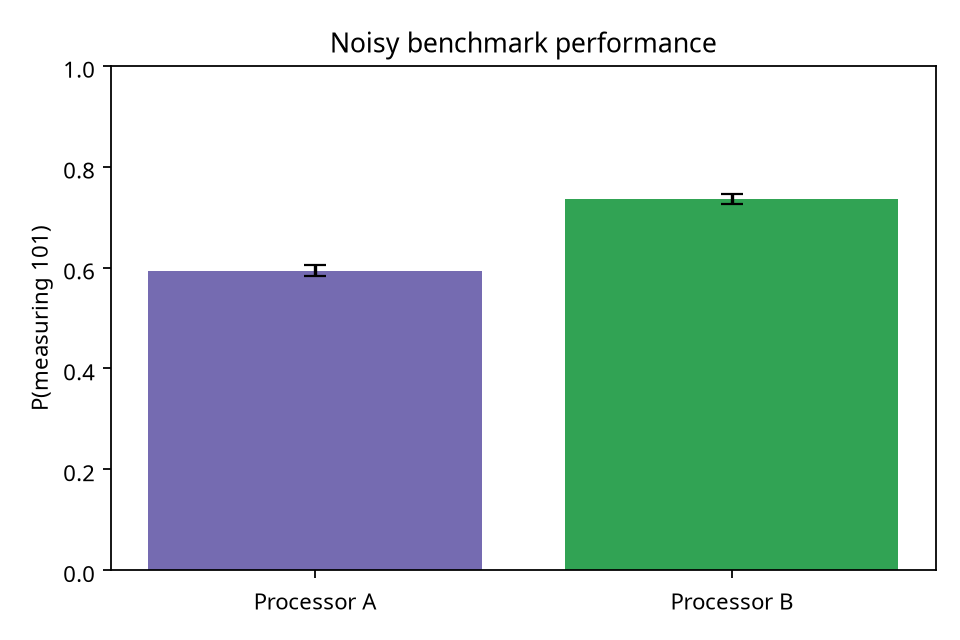
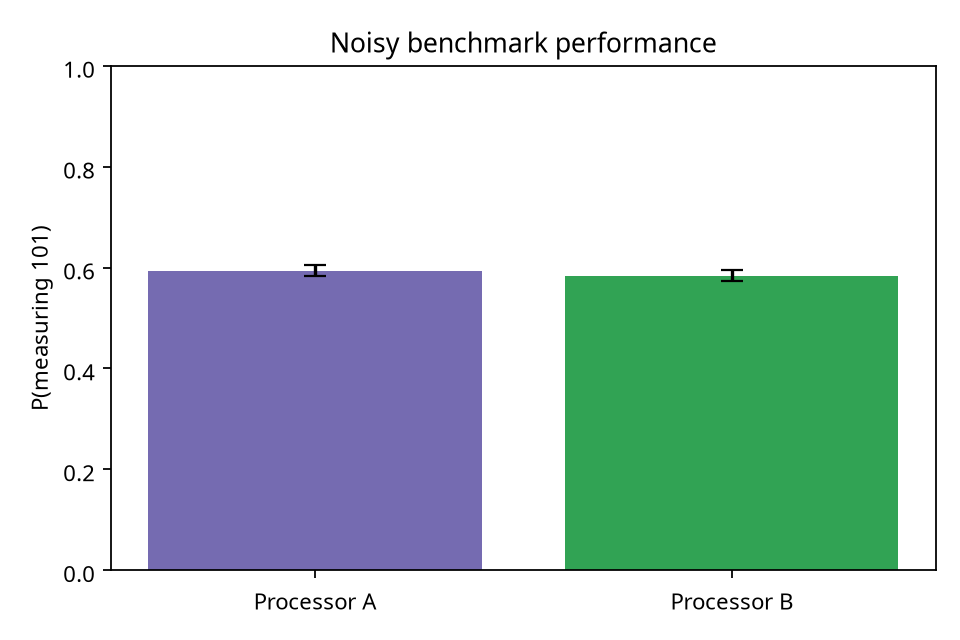
Align online benchmark with seven-qubit provisional Processor B

Changed region(s): [[0.5625, 0.2812, 0.9375, 0.4375]]

diff --git a/README.md b/README.md
@@ -55,12 +55,12 @@ These values are generated from the result CSVs—not typed in by hand.
 
 | Metric | Processor A | Processor B | B − A |
 |---|---:|---:|---:|
-| Success probability for `101` | `0.593750` | `0.735840` | `0.142090` |
-| Standard error | `0.010853` | `0.009742` | `-0.001110` |
-| Compiled depth | `147` | `56` | `-91` |
-| Counted two-qubit gates | `45` | `24` | `-21` |
-| Estimated SWAP overhead | `7.000000` | `0.000000` | `-7.000000` |
-| Total compiled operations | `231` | `96` | `-135` |
+| Success probability for `101` | `0.593750` | `0.583496` | `-0.010254` |
+| Standard error | `0.010853` | `0.010893` | `0.000041` |
+| Compiled depth | `147` | `175` | `28` |
+| Counted two-qubit gates | `45` | `45` | `0` |
+| Estimated SWAP overhead | `7.000000` | `7.000000` | `0.000000` |
+| Total compiled operations | `231` | `276` | `45` |
 
 **Interpretation:** under this placeholder topology and common noise model, Processor B produced fewer compiled operations and a higher measured success probability. This is evidence for this experiment—not a universal claim that more connectivity is always better. Gate sets, placement, routing, noise, calibration, and compiler choices can all contribute.
 
@@ -103,7 +103,7 @@ jupyter nbconvert --to notebook --execute main.ipynb \
 ├── report.md                         ← measured analysis + limitations
 ├── data/raw/inventory.csv            ← sample crypto inventory
 ├── processors/processor_A.json       ← line topology placeholder
-├── processors/processor_B.json       ← connected topology placeholder
+├── processors/processor_B.json       ← seven-qubit heavy-hex-inspired provisional topology
 ├── src/problem.py                    ← scoring + migration logic
 ├── src/processors.py                 ← JSON loading + noise model
 ├── src/routing.py                    ← Grover + transpilation
@@ -155,13 +155,20 @@ The SWAP value is explicitly an **estimate**: extra compiled two-qubit gates div
 - [x] Transpiled circuits and measured metrics
 - [x] A/B comparison, figures, and evidence-based report
 - [x] Limitations and AI assistance disclosure
-- [ ] Replace placeholders with official Challenge Kit values before submission
+- [ ] Replace provisional Processor A/B definitions with official Challenge Kit JSON before submission
+- [x] Online A/B architecture comparison separated from offline C/D Bell-correlation scope
+
+## Online and offline challenge stages
+
+The supplied guideline summary describes the online Phase 1 comparison as **Processor A: five qubits** and **Processor B: seven qubits with a heavy-hex-inspired graph**. The offline shortlisted stage introduces **Processors C and D**, a Bell-correlation study with `XX`, `YY`, and `ZZ` checks, protection strategies, and postselection yield. This repository targets the online P2 deliverable; it does not claim to implement the offline C/D package.
 
 ## Important Challenge Kit note
 
 The Challenge Guide says the **official Challenge Kit is authoritative** for processor definitions, coupling maps, noise assumptions, and PS-specific inputs. The included JSON files are clearly marked `PLACEHOLDER - REPLACE WITH CHALLENGE KIT VALUES`.
 
-Before submission, replace `processors/processor_A.json` and `processors/processor_B.json`, then rerun the notebook. Do not manually edit measured CSVs or report values.
+Processor A remains a five-qubit placeholder, and Processor B is now a seven-qubit heavy-hex-inspired **summary-derived provisional placeholder**. The exact Challenge Kit coupling maps, ports, basis gates, and noise values were not included in the supplied files, so these are not yet official definitions.
+
+Before submission, replace `processors/processor_A.json` and `processors/processor_B.json` with the exact official JSON files, then rerun the notebook. Do not manually edit measured CSVs or report values.
 
 ## Limitations
 

diff --git a/report.md b/report.md
@@ -4,16 +4,16 @@
 The inventory was scored with the specified lookup tables, and each asset received a migration recommendation and phase. The same marked-state Grover circuit was compiled and executed on both placeholder processor definitions.
 
 ## Which architectural property changed?
-Processor A uses coupling edges [[0, 1], [1, 2], [2, 3], [3, 4]]; Processor B uses coupling edges [[0, 1], [1, 2], [2, 3], [3, 4], [4, 0], [0, 2]]. The basis gates and noise parameters were held constant.
+Processor A uses coupling edges [[0, 1], [1, 2], [2, 3], [3, 4]]; Processor B uses coupling edges [[0, 1], [1, 2], [2, 3], [3, 4], [4, 5], [5, 6], [1, 4], [2, 5]]. The basis gates and noise parameters were held constant.
 
 ## Did transpilation add routing?
-Using the all-to-all baseline, Processor A compiled to 45 counted two-qubit gates versus 24 baseline, for an estimated SWAP overhead of 7.000000. Processor B compiled to 24 versus 24 baseline, for an estimated SWAP overhead of 0.000000. This is an estimate because it divides extra two-qubit gates by three.
+Using the all-to-all baseline, Processor A compiled to 45 counted two-qubit gates versus 24 baseline, for an estimated SWAP overhead of 7.000000. Processor B compiled to 45 versus 24 baseline, for an estimated SWAP overhead of 7.000000. This is an estimate because it divides extra two-qubit gates by three.
 
 ## How many extra operations?
-The total compiled operation counts were 231 for Processor A and 96 for Processor B; extra two-qubit counts versus baseline were 21 and 0.
+The total compiled operation counts were 231 for Processor A and 276 for Processor B; extra two-qubit counts versus baseline were 21 and 21.
 
 ## Did the problem metric change?
-The measured success probabilities for state `101` were 0.593750 ± 0.010853 for Processor A and 0.735840 ± 0.009742 for Processor B. The difference (B − A) was 0.142090. Ideal reference probabilities were 0.952637 and 0.952637.
+The measured success probabilities for state `101` were 0.593750 ± 0.010853 for Processor A and 0.583496 ± 0.010893 for Processor B. The difference (B − A) was -0.010254. Ideal reference probabilities were 0.952637 and 0.952637.
 
 ## Could gate-set/noise differences also contribute?
 Yes. This run keeps basis gates and the default placeholder noise model identical, but transpilation can produce different gate counts and layouts. If official processor data changes basis gates, ports, calibration, or noise, those factors can contribute and must be reported separately.
